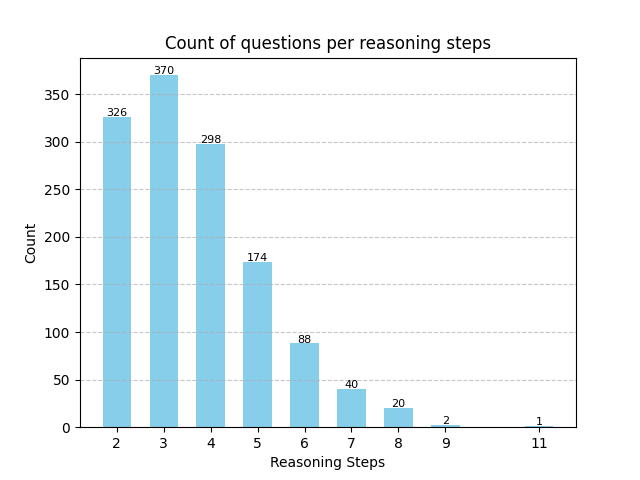
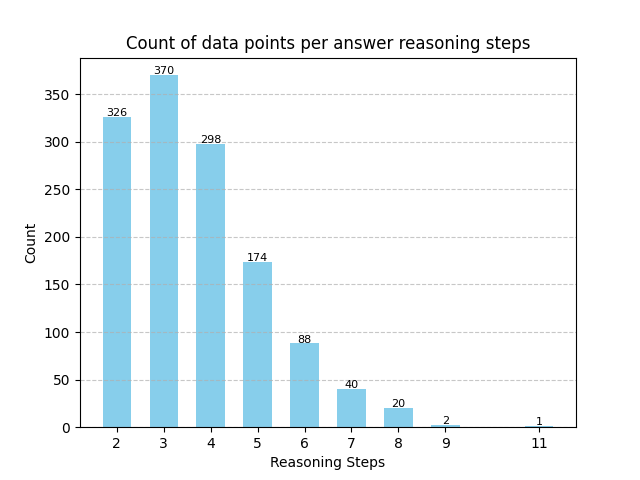
a few more scripts

Changed region(s): [[0.1875, 0.0625, 0.8438, 0.125]]

diff --git a/analyze_refusals.py b/analyze_refusals.py
@@ -1,0 +1,78 @@
+import re
+import os
+import typer
+from rich import print
+from rich.rule import Rule
+from rich.table import Table
+from rich.align import Align
+from rich.console import Console
+
+from constants import SEPARATOR
+
+console = Console()
+
+
+def calculate_na(path):
+    data = None
+    with open(path, "r") as file:
+        data = file.read()
+
+    datapoints = data.split(SEPARATOR)
+    if datapoints[-1] == "\n":
+        datapoints = datapoints[:-1]
+
+    count, total_count = 0, 0
+    for datapoint in datapoints:
+        if datapoint == "" or datapoint == "\n":
+            break
+        extracted_experiment_response = re.findall(
+            r">>>> Extracted Experiment Response:\s*(.*?)\n", datapoint
+        )[0]
+        if "n/a" in extracted_experiment_response:
+            count += 1
+        total_count += 1
+
+    return count, total_count
+
+
+def main():
+    experiments_dir = "data/experiments"
+    table = Table(
+        title="\n\n[bold]n/a results[/bold]",
+        padding=(0, 2),
+        show_footer=True,
+    )
+    table.add_column("Model", justify="center", style="cyan bold")
+    table.add_column("Irrelevant", justify="center", style="magenta bold")
+    table.add_column("Pathological", justify="center", style="magenta bold")
+    table.add_column("Relevant", justify="center", style="magenta bold")
+    table.add_column("Combo", justify="center", style="magenta bold")
+
+    for model in os.listdir(experiments_dir):
+        model_experiments_dir = "{}/{}/".format(experiments_dir, model)
+        percentages = {}
+        for experiment in os.listdir(model_experiments_dir):
+            if "cleaned" in experiment:
+                # print(
+                #     "Model: [white bold]{}[/white bold], Experiment: [white bold]{}[/white bold]".format(
+                #         model, experiment.split("-")[1].split(".")[0]
+                #     )
+                # )
+                experiment_path = "{}/{}/{}".format(experiments_dir, model, experiment)
+                count, total_count = calculate_na(experiment_path)
+                # print(Rule(style="red"))
+                # print()
+                percentage = f"{(count / total_count) * 100:.2f}%"
+                percentages[experiment.split("-")[1].split(".")[0]] = str(percentage)
+        table.add_row(
+            model,
+            percentages.get("irrelevant", ""),
+            percentages["pathological"],
+            percentages["relevant"],
+            percentages["combo"],
+        )
+    console.print(Align.center(table))
+
+
+if __name__ == "__main__":
+    typer.run(main)

diff --git a/plot_reasoning_steps.py b/plot_reasoning_steps.py
@@ -9,7 +9,7 @@ plt.bar(x_values, y_values, color="skyblue", width=0.6)
 
 plt.xlabel("Reasoning Steps")
 plt.ylabel("Count")
-plt.title("Count of questions per reasoning steps")
+plt.title("Count of data points per answer reasoning steps")
 plt.xticks(x_values)
 plt.grid(axis="y", linestyle="--", alpha=0.7)
 for x, y in zip(x_values, y_values):
